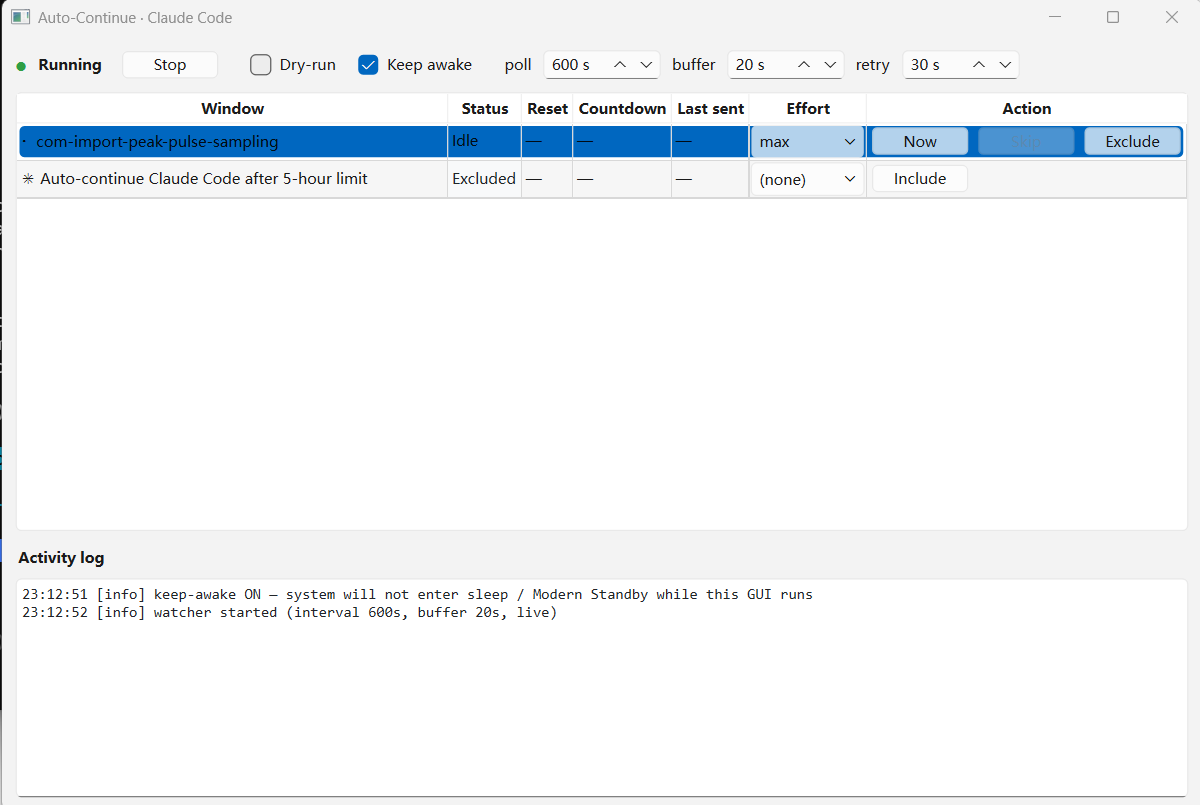
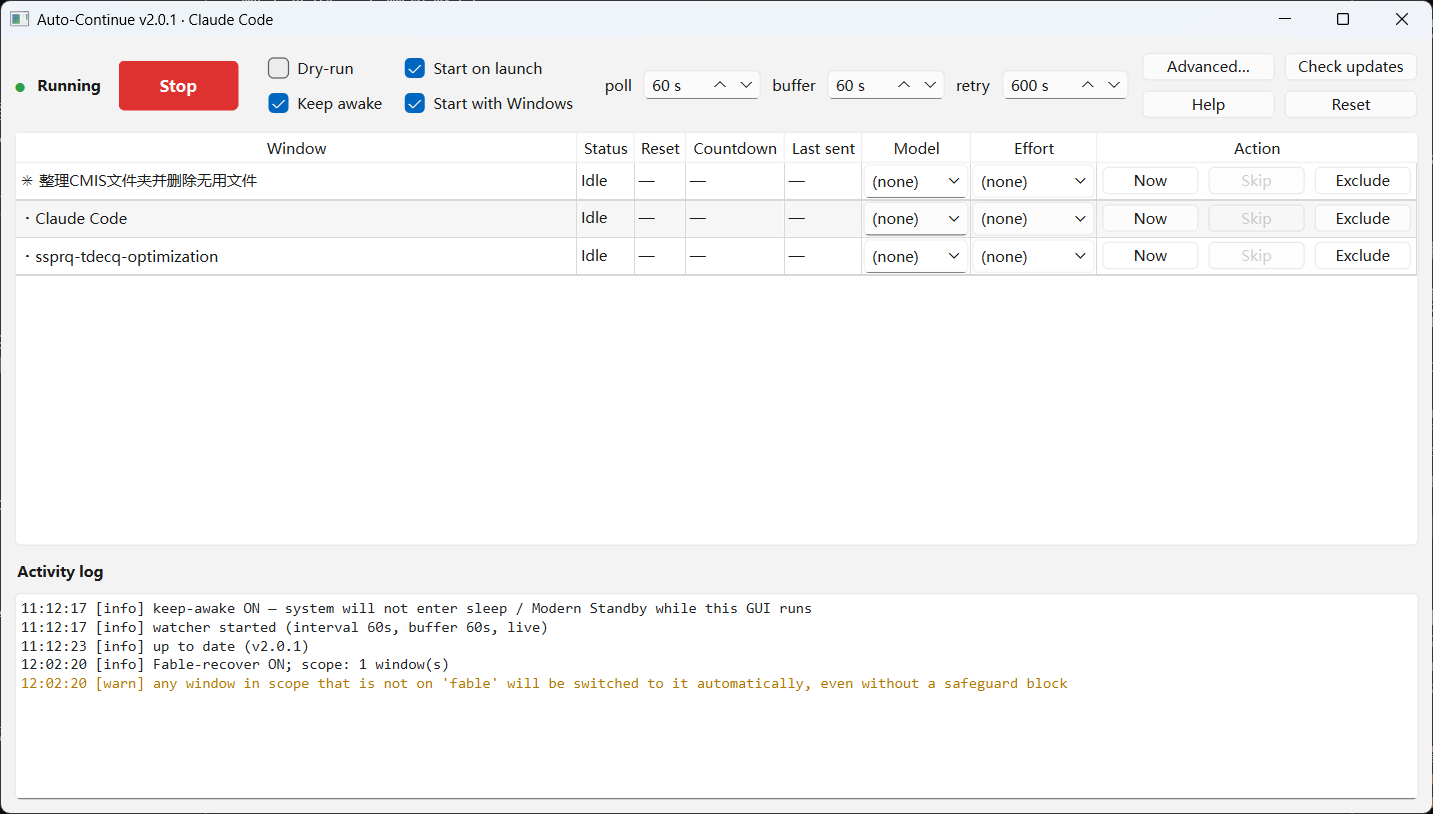
Shoot the promo screenshots for v2.0.1
The old main-window shot was from v1.0.1 — before the 2x2 button block,
before the Fable-recover status, and with the old default timings.

Two new dialog shots carry the feature the article now leads with. Both
are rendered from a standalone process with sample window names, so no
real project titles appear in published marketing, and QSettings is
patched to an unused scope so the capture cannot touch the running app's
configuration.

Captured with QWidget.grab() rather than reading pixels off the desktop:
grabWindow(0, x, y, w, h) takes whatever is on top at those coordinates,
and with the dialog behind a terminal the first attempt captured the
terminal instead.

Claude-Session: https://claude.ai/code/session_01EDyGgjySk6y8A188HNoiSa

diff --git a/docs/marketing/公众号推广文章_微信版.html b/docs/marketing/公众号推广文章_微信版.html
@@ -10,10 +10,12 @@
 <!-- ══ 操作提示（发布前删除此行） ══
   1. 在浏览器中打开此文件，Ctrl+A 全选，Ctrl+C 复制
   2. 粘贴到微信公众号编辑器
-  3. 三张图片需在编辑器中手动重新插入：
-       · screenshot_main.png  ← Auto-Continue GUI 主界面截图
-       · baidu_qr.png         ← 百度网盘下载二维码
-       · wechat_qr.jpg        ← 公众号二维码
+  3. 五张图片需在编辑器中手动重新插入：
+       · screenshot_fable_recovery.png ← Advanced → Fable recovery 设置页
+       · screenshot_main.png           ← GUI 主界面
+       · screenshot_triggers.png       ← Advanced → Triggers 设置页
+       · baidu_qr.png                  ← 百度网盘下载二维码
+       · wechat_qr.jpg                 ← 公众号二维码
   4. 删除本段注释
 ══════════════════════════════════ -->
 
@@ -134,6 +136,10 @@
       </tbody>
     </table>
 
+    <!-- Fable recovery 设置页截图（发布时需在编辑器重新插入图片） -->
+    <img src="screenshot_fable_recovery.png" alt="Advanced → Fable recovery 设置页" style="width:100%;border:1px solid #e5e7eb;border-radius:8px;display:block;margin:16px 0 6px;">
+    <div style="font-size:12px;color:#9ca3af;text-align:center;margin-bottom:20px;">▲ Advanced → Fable recovery：脚本每一行都可以改，下方逐窗口勾选授权</div>
+
     <!-- 四条护栏 -->
     <p style="font-size:15px;color:#333;line-height:1.9;margin-bottom:12px;">
       会自动往终端里敲字的功能，最怕的是<b>帮倒忙</b>。所以它带了四条护栏，每一条都是真实踩过坑之后加的：
@@ -228,7 +234,7 @@
         <td style="width:50%;background:#fefce8;border:1px solid #fde68a;border-radius:8px;padding:14px 16px;vertical-align:top;">
           <div style="font-size:22px;margin-bottom:6px;">✏</div>
           <div style="font-weight:700;font-size:14px;color:#713f12;margin-bottom:4px;">检测关键词自己可改 <span style="font-size:11px;background:#fbbf24;color:#713f12;padding:1px 6px;border-radius:3px;">v2.0 新增</span></div>
-          <div style="font-size:13px;color:#6b7280;line-height:1.6;">9 类检测规则全部开放编辑，还带实时测试框：把终端里的原文贴进去，立刻看到匹配结果。<b>官方哪天改了提示措辞，你自己就能修好，不用等我发新版。</b></div>
+          <div style="font-size:13px;color:#6b7280;line-height:1.6;">9 类检测规则全部开放编辑，还带实时测试框：把终端里的原文贴进去，立刻看到匹配结果。<b>官方哪天改了提示措辞，你自己就能修好，不用等我发新版。</b>（见下图）</div>
         </td>
         <td style="width:50%;background:#fefce8;border:1px solid #fde68a;border-radius:8px;padding:14px 16px;vertical-align:top;">
           <div style="font-size:22px;margin-bottom:6px;">🎯</div>
@@ -273,6 +279,10 @@
         </td>
       </tr>
     </table>
+
+    <!-- Triggers 设置页截图（发布时需在编辑器重新插入图片） -->
+    <img src="screenshot_triggers.png" alt="Advanced → Triggers 设置页" style="width:100%;border:1px solid #e5e7eb;border-radius:8px;display:block;margin:16px 0 6px;">
+    <div style="font-size:12px;color:#9ca3af;text-align:center;margin-bottom:20px;">▲ Advanced → Triggers：9 类规则逐条可改，改完当场贴原文验证</div>
 
     <hr style="border:none;border-top:1px dashed #e5e7eb;margin:28px 0;">
 
